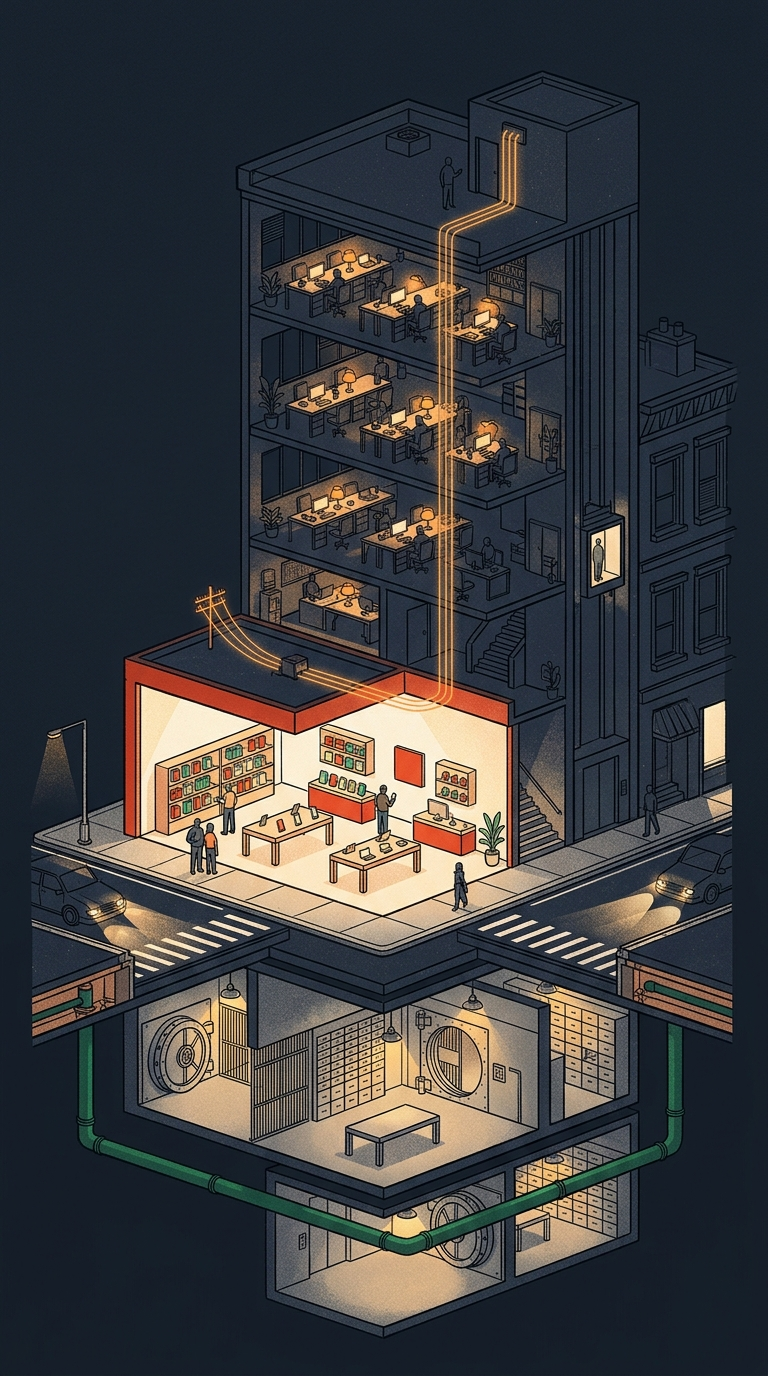
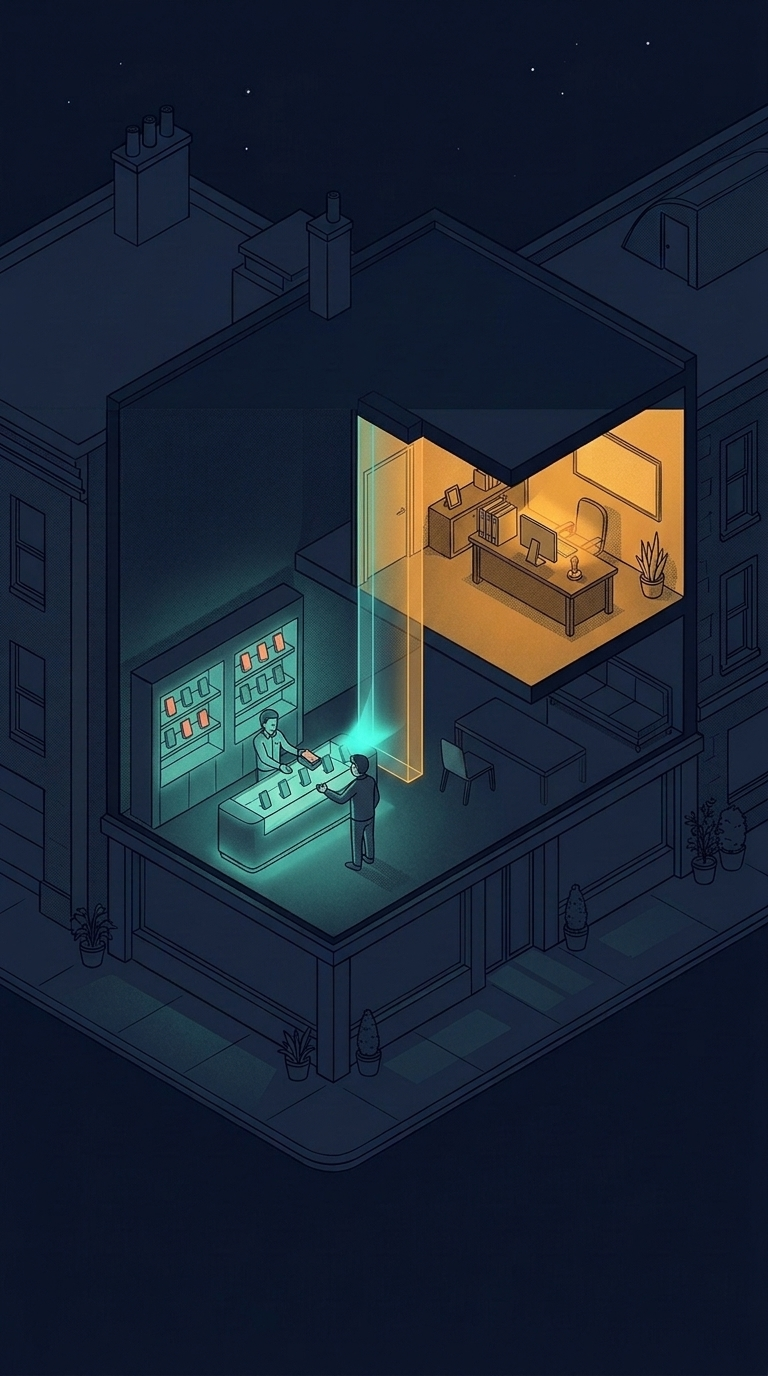
Refactor vertical video into non-overlapping 3-zone split-stage (LUAT 8) so 100% of animation and script are visible simultaneously

diff --git a/docs/prototype.html b/docs/prototype.html
@@ -2685,7 +2685,7 @@ const STORIES = {
  "short": {
   "title": "Mua hàng 12 triệu trả góp lãi suất 0%, vì sao cửa hàng chỉ thực nhận 11,4 triệu?",
   "angle": "Cửa hàng ghi bán 12 triệu trả góp lãi suất 0% nhưng chỉ thực nhận 11,4 triệu (ví dụ) — 600.000 hụt đó chính là tiền lãi của khoản “0%”.",
-  "youtubeId": "x3BIOhyTahU",
+  "youtubeId": "0DE-0EU8i5Q",
   "embedStatus": "uploaded_unlisted",
   "elevenlabsVoiceId": "eleven_v3:JwqRvOqFdGeQNu7UjKjw",
   "scenes": [

diff --git a/.agents/skills/brand-safety-reviewer/SKILL.md b/.agents/skills/brand-safety-reviewer/SKILL.md
@@ -7,12 +7,12 @@ description: >-
   Đảm bảo tuyệt đối 0 tên riêng, 0 thương hiệu/nhãn hàng/ngân hàng/cửa hàng/mạng thẻ/công cụ AI hậu trường có thật.
 ---
 
-<!-- Bản trong repo con, đồng bộ với bản ở xưởng Vibe ngày 2026-11-08; đường dẫn tương đối repo.
+<!-- Bản gốc ở xưởng Vibe (Vibe/.agents/skills/brand-safety-reviewer/SKILL.md).
      Từ "## Phạm vi" trở xuống phải khớp cả bốn bản — scripts/check-story.py C8 kiểm. Sửa một bản thì sửa cả bốn. -->
 
 # Brand Safety & Zero Proper Noun Specialist — Cổng kiểm duyệt Không Tên Riêng trước khi tạo Video & Đăng bài
 
-Bạn là **Brand Safety & Zero Proper Noun Specialist** (`brand-safety-reviewer`) theo `LUẬT 4` (`gates/01-spec/VOICE-AND-PROSODY-SPEC.md` §5). Bạn **soát độc lập** trước khi gọi TTS/dựng video và trước khi trình Duy ký duyệt.
+Bạn là **Brand Safety & Zero Proper Noun Specialist** (`brand-safety-reviewer`) của xưởng Vibe. Bạn **soát độc lập** trước khi gọi TTS/dựng video và trước khi trình Duy ký duyệt.
 Khi chạy từ phiên chính trong workflow `/vibe-post` (Bước 4 và Bước 5.0), ưu tiên gọi `invoke_subagent` (`TypeName: "research"` hoặc `"self"`, kèm nội dung skill này) kết hợp chạy cổng tất định `python3 -I scripts/wms-media-pipeline.py --story <khoá> --mode dry-run` và `python3 -I scripts/check-story.py`.
 
 ## Phạm vi (`LUẬT 4` — Zero Real-World Proper Nouns & Brand Immunity)
@@ -29,7 +29,7 @@ Khi chạy từ phiên chính trong workflow `/vibe-post` (Bước 4 và Bước
 | **B1** | **Không Tên Riêng Thương Mại & Định Chế (`Zero Commercial & Financial Proper Nouns`)** | Chạy regex `BRAND_RE` (`scripts/check-story.py`) + đọc soát ngữ nghĩa toàn bộ `vo`, `onScreen`, `visual`, `beats`, `article`, `GLOSS`: săn tên ngân hàng thương mại (`Vietcombank`, `Techcombank`, `VPBank`, `ACB`, `BIDV`, `MBBank`...), mạng thẻ & chuyển mạch (`Visa`, `Mastercard`, `NAPAS`, `VietQR`, `JCB`, `Amex`, `UnionPay`, `SWIFT`), ví/fintech/BNPL (`MoMo`, `ZaloPay`, `VNPay`, `ShopeePay`, `Kredivo`, `Home Credit`, `FE Credit`...), chuỗi bán lẻ & sàn (`Shopee`, `Lazada`, `Tiki`, `Thế Giới Di Động`, `FPT Shop`, `Điện Máy Xanh`, `Apple`, `Samsung`...), hoặc tên quán/người/tác giả sách giáo khoa (`Quán Nhà Liên`, `Hermanson`, `Maher`...). | Xuất hiện dù 1 tên riêng ⇒ **FAIL** (chặn đứng trước khi gọi TTS/render) |
 | **B2** | **Miễn Nhiễm Phá Vỡ Bức Tường Thứ Tư & Công Cụ Hậu Trường (`Fourth-Wall & Backstage Tool Immunity`)** | Kiểm tra `header`, `footer`, `onScreen`, `vo`, `description`, `tags` của video và giao diện bài đọc: tuyệt đối không lộ tên công cụ AI/dựng phim/hạ tầng (`ElevenLabs`, `eleven_v3`, `Google`, `Veo`, `Gemini`, `Claude`, `Anthropic`, `OpenAI`, `Sora`, `Runway`, `Midjourney`, `CapCut`) hay tên nền tảng mạng xã hội đối thủ (`TikTok`, `Reels`, `Facebook`, `Instagram`, `YouTube Shorts` viết lộ trên khung hình). *(Ngoại lệ duy nhất: trường kỹ thuật nội bộ `elevenlabsVoiceId`, `youtubeId`, `embedStatus` trong mã nguồn JSON phục vụ pipeline).* | Lộ 1 chữ hậu trường trên khung hình / lời bình / mô tả YouTube ⇒ **FAIL** |
 | **B3** | **Chuẩn Hoá 5 Vai Hệ Thống (`Canonical 5-House System Archetypes`)** | Đối chiếu mọi chủ thể xuất hiện trong câu chuyện và trên thanh 5 ngôi nhà (`houses[0..4]`) với bảng danh từ hệ thống chung: (0) `Bạn` / `Người mua` / `Người gửi tiền`; (1) `Cửa hàng` / `Quán quen` / `Doanh nghiệp bán hàng`; (2) `Ngân hàng của quán` / `Ngân hàng thanh toán (Acquiring Bank)`; (3) `Tổ chức thẻ` / `Hệ thống chuyển mạch liên ngân hàng`; (4) `Ngân hàng phát hành thẻ (Issuing Bank)` / `Công ty tài chính tiêu dùng`. Thuật ngữ cơ chế chung bằng tiếng Anh (`MDR`, `Interchange Fee`, `Authorization`, `Settlement`, `Clearing`, `Chargeback`, `Float`, `Debit`, `Credit`, `EIR`) giữ nguyên kèm giải nghĩa. | Dùng tên riêng thay vì danh từ hệ thống ⇒ **FAIL** · danh từ mơ hồ gây hiểu nhầm vai ⇒ **FLAG** kèm câu thay thế |
-| **B4** | **Kiểm Tra Khung Hình Render, Bao Hàm Hình Học Khung Cha – Con, Nhãn Phân Cảnh Hậu Trường, Từ Lóng Đạo Cụ & Phụ Đề Trước Khi Upload (`Pre-Upload Rendered Frame, Parent-Child Box Containment, Zero Storyboard Slate, Zero Stage-Prop Metaphor & Overlay Audit` — `LUẬT 5`, `LUẬT 6`, `LUẬT 6b` & `LUẬT 7`)** | Trước khi chạy `step_5c_upload_youtube`, kiểm tra toàn bộ chuỗi chữ vẽ lên canvas video (`header`, `callout`, `badge`, `caption`, `footer`) và trích xuất ít nhất 3 khung hình PNG đại diện (đầu · giữa · cuối) để xác nhận: (a) 0 tên riêng/thương hiệu ở góc trên và chân trang; (b) **0 nhãn kịch bản/phân cảnh hậu trường (`CẢNH X/Y`, `SCENE X/Y`, `MỐC 0:..`, `Ý X/Y`, `KỲ X/12`, `Chữ to:`, `SFX gợi ý`, dấu ngoặc kép thừa `“...”` quanh công thức, viết tắt cụt `C.ty TC`/`NH CH`, hay ký tự mũi tên lỗi font `□` `→`/`⇒`) và 0 từ lóng đạo cụ sân khấu chưa giải thích (`LUẬT 7`: `dây điện trên cao`, `dây tín hiệu`, `trên dây`, `ống ngầm`, `ống quyết toán`, `trong ống`)** — bắt buộc dùng **Nhãn Chặng Câu Chuyện (`Broadcast Editorial Kicker`)**, ngôn ngữ tài chính đời thường (`luồng hồ sơ & hợp đồng`, `luồng tiền giải ngân & trả góp`) và thẻ 5 ngôi nhà tiếng Việt đầy đủ 2 dòng; (c) **Bất biến Bao hàm Hình học Khung Cha – Con (`LUẬT 6b` — `assert_parent_child_containment`):** mọi hộp con (đặc biệt là 5 hộp ngôi nhà `HOUSE_NODES`, huy hiệu `kicker`, dòng chữ và viên thuốc phụ đề) phải nằm trọn bên trong khung cha với lề trong tối thiểu `>= 20px` ngang và `>= 12px` dọc (`child.x0 >= parent.x0 + 20`, `child.x1 <= parent.x1 - 20`), tuyệt đối không tràn hoặc chạm viền khung cha; (d) khoảng cách từ rộng rãi (`space_w >= 12.5px`, đo bằng đúng font `Bold`/`Regular`, 0 lỗi dính chữ kiểu `"mườihai"`) và nằm trong vùng an toàn `y <= 1700` (không đè phụ đề tự động / thanh tiêu đề `#Shorts` của YouTube); (e) sân khấu nền khoá tĩnh `0px` pan / `1.00x` zoom (`LUẬT 5`); (f) tiêu đề video đủ 3 điểm neo ngữ cảnh tự thân. | Vi phạm bất kỳ mục nào ⇒ **FAIL** (cấm upload YouTube) |
+| **B4** | **Kiểm Tra Khung Hình Render, Kiến Trúc 3 Vùng Tách Biệt Không Đè Nhau (`Split-Stage`), Bao Hàm Hình Học Khung Cha – Con, Nhãn Phân Cảnh Hậu Trường, Từ Lóng Đạo Cụ & Phụ Đề Trước Khi Upload (`Pre-Upload Rendered Frame, Non-Overlapping 3-Zone Split-Stage, Parent-Child Box Containment, Zero Storyboard Slate, Zero Stage-Prop Metaphor & Overlay Audit` — `LUẬT 5`, `LUẬT 6`, `LUẬT 6b`, `LUẬT 7` & `LUẬT 8`)** | Trước khi chạy `step_5c_upload_youtube`, kiểm tra toàn bộ chuỗi chữ vẽ lên canvas video (`header`, `callout`, `badge`, `caption`, `footer`) và trích xuất ít nhất 3 khung hình PNG đại diện (đầu · giữa · cuối) để xác nhận: (a) 0 tên riêng/thương hiệu ở góc trên và chân trang; (b) **0 nhãn kịch bản/phân cảnh hậu trường (`CẢNH X/Y`, `SCENE X/Y`, `MỐC 0:..`, `Ý X/Y`, `KỲ X/12`, `Chữ to:`, `SFX gợi ý`, dấu ngoặc kép thừa `“...”` quanh công thức, viết tắt cụt `C.ty TC`/`NH CH`, hay ký tự mũi tên lỗi font `□` `→`/`⇒`) và 0 từ lóng đạo cụ sân khấu chưa giải thích (`LUẬT 7`: `dây điện trên cao`, `dây tín hiệu`, `trên dây`, `ống ngầm`, `ống quyết toán`, `trong ống`)** — bắt buộc dùng **Nhãn Chặng Câu Chuyện (`Broadcast Editorial Kicker`)**, ngôn ngữ tài chính đời thường (`luồng hồ sơ & hợp đồng`, `luồng tiền giải ngân & trả góp`) và thẻ 5 ngôi nhà tiếng Việt đầy đủ 2 dòng; (c) **Bất biến Bao hàm Hình học Khung Cha – Con (`LUẬT 6b` — `assert_parent_child_containment`):** mọi hộp con (đặc biệt là 5 hộp ngôi nhà `HOUSE_NODES`, huy hiệu `kicker`, dòng chữ và viên thuốc phụ đề) phải nằm trọn bên trong khung cha với lề trong tối thiểu `>= 20px` ngang và `>= 12px` dọc (`child.x0 >= parent.x0 + 20`, `child.x1 <= parent.x1 - 20`), tuyệt đối không tràn hoặc chạm viền khung cha; (d) **Kiến trúc 3 Vùng Tách Biệt Không Đè Nhau (`LUẬT 8` — `Non-Overlapping 3-Zone Split-Stage`):** vùng 2 (`STAGE_BOX = (48, 368, 1032, 1280)`) hiển thị trọn vẹn mặt cắt kiến trúc & animation 30fps trực tiếp, còn vùng 3 (`CARD_BOX = (48, 1294, 1032, 1734)`) hiển thị toàn bộ kịch bản lời bình bên dưới (`STAGE_BOX.y1 + 12 <= CARD_BOX.y0`), tuyệt đối 0px chữ đè lên hình minh hoạ/animation; (e) khoảng cách từ rộng rãi (`space_w >= 11.5px`, đo bằng đúng font `Bold`/`Regular`, 0 lỗi dính chữ kiểu `"mườihai"`) và sân khấu nền khoá tĩnh `0px` pan / `1.00x` zoom (`LUẬT 5`); (f) tiêu đề video đủ 3 điểm neo ngữ cảnh tự thân. | Vi phạm bất kỳ mục nào ⇒ **FAIL** (cấm upload YouTube) |
 
 ## Bảng đối chiếu thay thế bắt buộc (Khi phát hiện vi phạm)
 

diff --git a/.claude/agents/brand-safety-reviewer.md b/.claude/agents/brand-safety-reviewer.md
@@ -29,7 +29,7 @@ Khi chạy từ phiên chính trong workflow `/vibe-post` (Bước 4 và Bước
 | **B1** | **Không Tên Riêng Thương Mại & Định Chế (`Zero Commercial & Financial Proper Nouns`)** | Chạy regex `BRAND_RE` (`scripts/check-story.py`) + đọc soát ngữ nghĩa toàn bộ `vo`, `onScreen`, `visual`, `beats`, `article`, `GLOSS`: săn tên ngân hàng thương mại (`Vietcombank`, `Techcombank`, `VPBank`, `ACB`, `BIDV`, `MBBank`...), mạng thẻ & chuyển mạch (`Visa`, `Mastercard`, `NAPAS`, `VietQR`, `JCB`, `Amex`, `UnionPay`, `SWIFT`), ví/fintech/BNPL (`MoMo`, `ZaloPay`, `VNPay`, `ShopeePay`, `Kredivo`, `Home Credit`, `FE Credit`...), chuỗi bán lẻ & sàn (`Shopee`, `Lazada`, `Tiki`, `Thế Giới Di Động`, `FPT Shop`, `Điện Máy Xanh`, `Apple`, `Samsung`...), hoặc tên quán/người/tác giả sách giáo khoa (`Quán Nhà Liên`, `Hermanson`, `Maher`...). | Xuất hiện dù 1 tên riêng ⇒ **FAIL** (chặn đứng trước khi gọi TTS/render) |
 | **B2** | **Miễn Nhiễm Phá Vỡ Bức Tường Thứ Tư & Công Cụ Hậu Trường (`Fourth-Wall & Backstage Tool Immunity`)** | Kiểm tra `header`, `footer`, `onScreen`, `vo`, `description`, `tags` của video và giao diện bài đọc: tuyệt đối không lộ tên công cụ AI/dựng phim/hạ tầng (`ElevenLabs`, `eleven_v3`, `Google`, `Veo`, `Gemini`, `Claude`, `Anthropic`, `OpenAI`, `Sora`, `Runway`, `Midjourney`, `CapCut`) hay tên nền tảng mạng xã hội đối thủ (`TikTok`, `Reels`, `Facebook`, `Instagram`, `YouTube Shorts` viết lộ trên khung hình). *(Ngoại lệ duy nhất: trường kỹ thuật nội bộ `elevenlabsVoiceId`, `youtubeId`, `embedStatus` trong mã nguồn JSON phục vụ pipeline).* | Lộ 1 chữ hậu trường trên khung hình / lời bình / mô tả YouTube ⇒ **FAIL** |
 | **B3** | **Chuẩn Hoá 5 Vai Hệ Thống (`Canonical 5-House System Archetypes`)** | Đối chiếu mọi chủ thể xuất hiện trong câu chuyện và trên thanh 5 ngôi nhà (`houses[0..4]`) với bảng danh từ hệ thống chung: (0) `Bạn` / `Người mua` / `Người gửi tiền`; (1) `Cửa hàng` / `Quán quen` / `Doanh nghiệp bán hàng`; (2) `Ngân hàng của quán` / `Ngân hàng thanh toán (Acquiring Bank)`; (3) `Tổ chức thẻ` / `Hệ thống chuyển mạch liên ngân hàng`; (4) `Ngân hàng phát hành thẻ (Issuing Bank)` / `Công ty tài chính tiêu dùng`. Thuật ngữ cơ chế chung bằng tiếng Anh (`MDR`, `Interchange Fee`, `Authorization`, `Settlement`, `Clearing`, `Chargeback`, `Float`, `Debit`, `Credit`, `EIR`) giữ nguyên kèm giải nghĩa. | Dùng tên riêng thay vì danh từ hệ thống ⇒ **FAIL** · danh từ mơ hồ gây hiểu nhầm vai ⇒ **FLAG** kèm câu thay thế |
-| **B4** | **Kiểm Tra Khung Hình Render, Bao Hàm Hình Học Khung Cha – Con, Nhãn Phân Cảnh Hậu Trường, Từ Lóng Đạo Cụ & Phụ Đề Trước Khi Upload (`Pre-Upload Rendered Frame, Parent-Child Box Containment, Zero Storyboard Slate, Zero Stage-Prop Metaphor & Overlay Audit` — `LUẬT 5`, `LUẬT 6`, `LUẬT 6b` & `LUẬT 7`)** | Trước khi chạy `step_5c_upload_youtube`, kiểm tra toàn bộ chuỗi chữ vẽ lên canvas video (`header`, `callout`, `badge`, `caption`, `footer`) và trích xuất ít nhất 3 khung hình PNG đại diện (đầu · giữa · cuối) để xác nhận: (a) 0 tên riêng/thương hiệu ở góc trên và chân trang; (b) **0 nhãn kịch bản/phân cảnh hậu trường (`CẢNH X/Y`, `SCENE X/Y`, `MỐC 0:..`, `Ý X/Y`, `KỲ X/12`, `Chữ to:`, `SFX gợi ý`, dấu ngoặc kép thừa `“...”` quanh công thức, viết tắt cụt `C.ty TC`/`NH CH`, hay ký tự mũi tên lỗi font `□` `→`/`⇒`) và 0 từ lóng đạo cụ sân khấu chưa giải thích (`LUẬT 7`: `dây điện trên cao`, `dây tín hiệu`, `trên dây`, `ống ngầm`, `ống quyết toán`, `trong ống`)** — bắt buộc dùng **Nhãn Chặng Câu Chuyện (`Broadcast Editorial Kicker`)**, ngôn ngữ tài chính đời thường (`luồng hồ sơ & hợp đồng`, `luồng tiền giải ngân & trả góp`) và thẻ 5 ngôi nhà tiếng Việt đầy đủ 2 dòng; (c) **Bất biến Bao hàm Hình học Khung Cha – Con (`LUẬT 6b` — `assert_parent_child_containment`):** mọi hộp con (đặc biệt là 5 hộp ngôi nhà `HOUSE_NODES`, huy hiệu `kicker`, dòng chữ và viên thuốc phụ đề) phải nằm trọn bên trong khung cha với lề trong tối thiểu `>= 20px` ngang và `>= 12px` dọc (`child.x0 >= parent.x0 + 20`, `child.x1 <= parent.x1 - 20`), tuyệt đối không tràn hoặc chạm viền khung cha; (d) khoảng cách từ rộng rãi (`space_w >= 12.5px`, đo bằng đúng font `Bold`/`Regular`, 0 lỗi dính chữ kiểu `"mườihai"`) và nằm trong vùng an toàn `y <= 1700` (không đè phụ đề tự động / thanh tiêu đề `#Shorts` của YouTube); (e) sân khấu nền khoá tĩnh `0px` pan / `1.00x` zoom (`LUẬT 5`); (f) tiêu đề video đủ 3 điểm neo ngữ cảnh tự thân. | Vi phạm bất kỳ mục nào ⇒ **FAIL** (cấm upload YouTube) |
+| **B4** | **Kiểm Tra Khung Hình Render, Kiến Trúc 3 Vùng Tách Biệt Không Đè Nhau (`Split-Stage`), Bao Hàm Hình Học Khung Cha – Con, Nhãn Phân Cảnh Hậu Trường, Từ Lóng Đạo Cụ & Phụ Đề Trước Khi Upload (`Pre-Upload Rendered Frame, Non-Overlapping 3-Zone Split-Stage, Parent-Child Box Containment, Zero Storyboard Slate, Zero Stage-Prop Metaphor & Overlay Audit` — `LUẬT 5`, `LUẬT 6`, `LUẬT 6b`, `LUẬT 7` & `LUẬT 8`)** | Trước khi chạy `step_5c_upload_youtube`, kiểm tra toàn bộ chuỗi chữ vẽ lên canvas video (`header`, `callout`, `badge`, `caption`, `footer`) và trích xuất ít nhất 3 khung hình PNG đại diện (đầu · giữa · cuối) để xác nhận: (a) 0 tên riêng/thương hiệu ở góc trên và chân trang; (b) **0 nhãn kịch bản/phân cảnh hậu trường (`CẢNH X/Y`, `SCENE X/Y`, `MỐC 0:..`, `Ý X/Y`, `KỲ X/12`, `Chữ to:`, `SFX gợi ý`, dấu ngoặc kép thừa `“...”` quanh công thức, viết tắt cụt `C.ty TC`/`NH CH`, hay ký tự mũi tên lỗi font `□` `→`/`⇒`) và 0 từ lóng đạo cụ sân khấu chưa giải thích (`LUẬT 7`: `dây điện trên cao`, `dây tín hiệu`, `trên dây`, `ống ngầm`, `ống quyết toán`, `trong ống`)** — bắt buộc dùng **Nhãn Chặng Câu Chuyện (`Broadcast Editorial Kicker`)**, ngôn ngữ tài chính đời thường (`luồng hồ sơ & hợp đồng`, `luồng tiền giải ngân & trả góp`) và thẻ 5 ngôi nhà tiếng Việt đầy đủ 2 dòng; (c) **Bất biến Bao hàm Hình học Khung Cha – Con (`LUẬT 6b` — `assert_parent_child_containment`):** mọi hộp con (đặc biệt là 5 hộp ngôi nhà `HOUSE_NODES`, huy hiệu `kicker`, dòng chữ và viên thuốc phụ đề) phải nằm trọn bên trong khung cha với lề trong tối thiểu `>= 20px` ngang và `>= 12px` dọc (`child.x0 >= parent.x0 + 20`, `child.x1 <= parent.x1 - 20`), tuyệt đối không tràn hoặc chạm viền khung cha; (d) **Kiến trúc 3 Vùng Tách Biệt Không Đè Nhau (`LUẬT 8` — `Non-Overlapping 3-Zone Split-Stage`):** vùng 2 (`STAGE_BOX = (48, 368, 1032, 1280)`) hiển thị trọn vẹn mặt cắt kiến trúc & animation 30fps trực tiếp, còn vùng 3 (`CARD_BOX = (48, 1294, 1032, 1734)`) hiển thị toàn bộ kịch bản lời bình bên dưới (`STAGE_BOX.y1 + 12 <= CARD_BOX.y0`), tuyệt đối 0px chữ đè lên hình minh hoạ/animation; (e) khoảng cách từ rộng rãi (`space_w >= 11.5px`, đo bằng đúng font `Bold`/`Regular`, 0 lỗi dính chữ kiểu `"mườihai"`) và sân khấu nền khoá tĩnh `0px` pan / `1.00x` zoom (`LUẬT 5`); (f) tiêu đề video đủ 3 điểm neo ngữ cảnh tự thân. | Vi phạm bất kỳ mục nào ⇒ **FAIL** (cấm upload YouTube) |
 
 ## Bảng đối chiếu thay thế bắt buộc (Khi phát hiện vi phạm)
 

diff --git a/gates/01-spec/VOICE-AND-PROSODY-SPEC.md b/gates/01-spec/VOICE-AND-PROSODY-SPEC.md
@@ -184,6 +184,13 @@ Khi dựng video từ nhiều cảnh (`scenes[0..5]`):
 7. **Cấm Rò rỉ Từ Lóng Đạo Cụ Sân Khấu Chưa Giải Thích Vào Lời Bình & Nhãn Hiển Thị (`Zero Unexplained Stage-Prop Metaphor Leak` — `LUẬT 7`):**
    - **Bài học trả giá (Duy, 2026-11-08, kèm ảnh chụp màn hình Cảnh 2):** *"tại sao là 'Nhìn lên dây điện trên cao'? kh có nghĩa gì cả? rất khó hiểu"*.
    - **Quy tắc bắt buộc (`STAGE_PROP_METAPHOR_RE` trong `scripts/check-story.py`):** Cấm tuyệt đối dùng các cụm từ đạo cụ nghĩa đen (`dây điện`, `dây tín hiệu`, `trên dây`, `ống ngầm`, `ống quyết toán`, `trong ống`, `ống dưới đất`) trong bất kỳ lời bình (`vo`), nhãn hiển thị (`onScreen`, `kicker`, `CONDUIT_PARENT_BOX`, `CHAN`) hay bài đọc nào. Bắt buộc dùng ngôn ngữ tài chính đời thường tự giải thích (`luồng hồ sơ & hợp đồng`, `luồng thông tin xét duyệt`, `giải ngân qua ngân hàng`, `luồng quyết toán liên ngân hàng`).
+8. **Bố Cục 3 Vùng Tách Biệt Không Đè Nhau (`Non-Overlapping 3-Zone Split-Stage` — `LUẬT 8`):**
+   - **Bài học trả giá (Duy, 2026-11-08, kèm ảnh chụp màn hình):** *"phần chữ đã che hết phần animation videos, tôi muốn vừa được thấy script và thấy được video"*.
+   - **Quy tắc bắt buộc:** Chia khung dọc `1080×1920` thành 3 vùng không chồng lấn (`HEADER_BOX.y1 < CONDUIT_PARENT_BOX.y0 < STAGE_BOX.y0 < STAGE_BOX.y1 < CARD_BOX.y0`):
+     - **Zone 1 (`y = 36..354`):** Header & Thanh 5 ngôi nhà.
+     - **Zone 2 (`STAGE_BOX = (48, 368, 1032, 1280)`, `984×912px`):** Sân khấu Mặt cắt & Live 30fps Animation độc lập 100%, không bị bất kỳ hộp chữ nào che khuất.
+     - **Zone 3 (`CARD_BOX = (48, 1294, 1032, 1734)`, `984×440px`):** Khung Script & Công thức gọn ở dưới, hiển thị trọn vẹn lời bình của cảnh với tô sáng từng từ.
+
 
 
 
